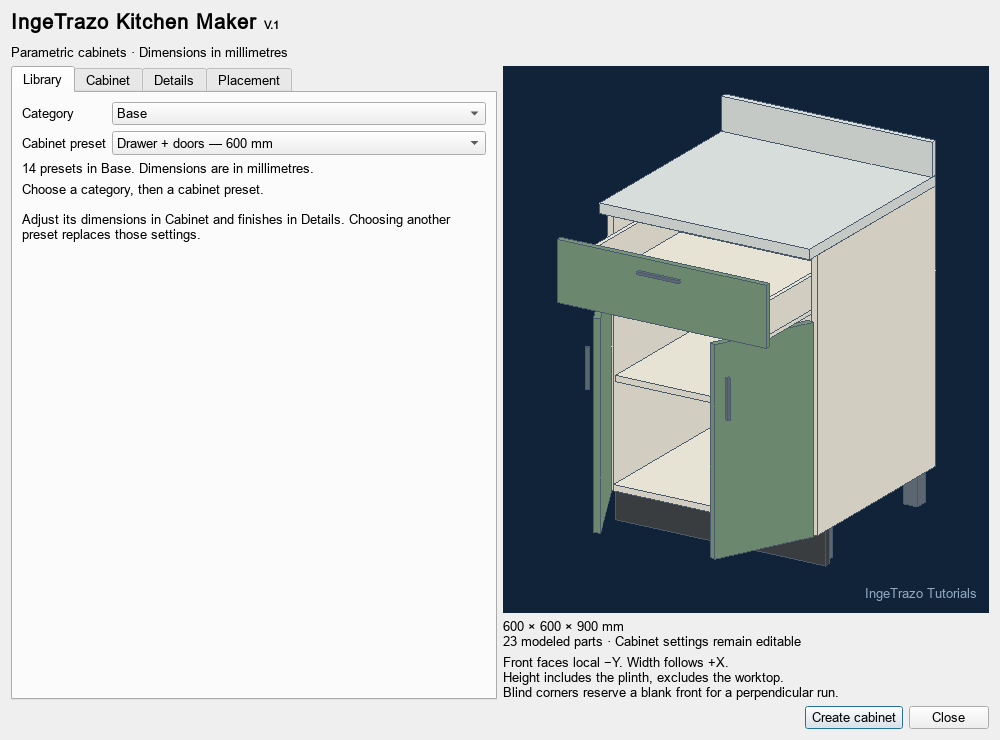
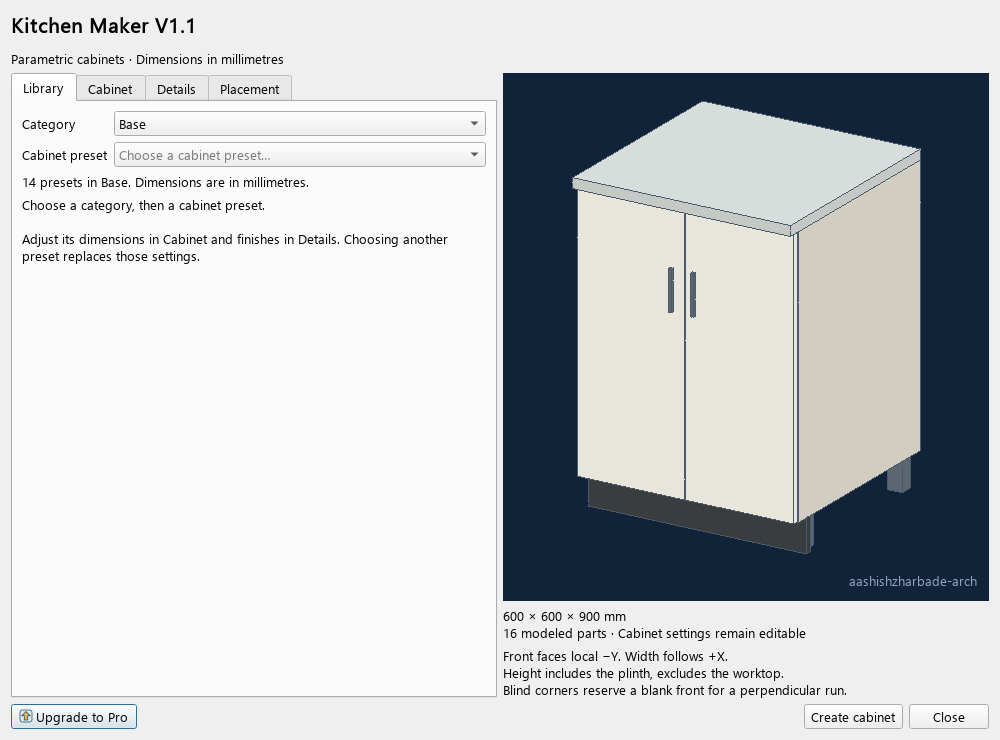
Add optional Upgrade to Pro link to Kitchen Maker free (1.1.0)

diff --git a/repository-upload/ingetrazo_kitchen_maker/ingetrazo_kitchen_maker.py b/repository-upload/ingetrazo_kitchen_maker/ingetrazo_kitchen_maker.py
@@ -1,5 +1,5 @@
 # SPDX-License-Identifier: GPL-3.0-or-later
-"""IngeTrazo Kitchen Maker V.1, native plugin for IngeTrazo 0.5.7.
+"""Kitchen Maker V1.1, native plugin for IngeTrazo 0.5.7.
 
 Native parametric geometry, Qt interface and procedurally drawn toolbar icons.
 Recipe dimensions are millimetres, generated model coordinates are metres.
@@ -12,8 +12,8 @@ import math
 import numpy as np
 from decimal import Decimal, ROUND_HALF_UP
 
-from PySide6.QtCore import Qt, QPointF, QTimer, QSize
-from PySide6.QtGui import QColor, QIcon, QImage, QPainter, QPen, QPixmap, QPolygonF, QVector3D, QMatrix4x4
+from PySide6.QtCore import Qt, QPointF, QTimer, QSize, QUrl
+from PySide6.QtGui import QColor, QDesktopServices, QIcon, QImage, QPainter, QPen, QPixmap, QPolygonF, QVector3D, QMatrix4x4
 from PySide6.QtWidgets import (QCheckBox, QComboBox, QDialog, QDoubleSpinBox,
     QFileDialog, QFormLayout, QHBoxLayout, QLabel, QLineEdit,
     QMessageBox, QPushButton, QScrollArea, QSpinBox, QTabWidget, QTableWidget,
@@ -24,8 +24,9 @@ from core.history import Command, InsertGroupCommand
 from tools.place_group import PlaceGroupTool
 
 KEY = "ingetrazo_kitchen_maker"
-VERSION = "1.0.2"
-TITLE = "IngeTrazo Kitchen Maker V.1"
+VERSION = "1.1.0"
+TITLE = "Kitchen Maker V1.1"
+PRO_URL = "https://ingetrazotutorials.gumroad.com/l/kitchen-maker-ingetrazo"
 FAMILIES = ("Base", "Wall", "Tall", "High", "Base corner", "Wall corner", "Filler")
 STYLES = ("Single door", "Double doors", "Drawers", "Drawer + doors", "Open shelves", "Glass doors", "Appliance niche", "Blind left", "Blind right")
 FINISHES = {"Warm white": (0.91, 0.90, 0.86), "Graphite": (0.20, 0.24, 0.28),
@@ -436,7 +437,7 @@ class Preview(QWidget):
             img=QImage(pixels.data,width,height,width*3,QImage.Format_RGB888)
             painter.drawImage(0,0,img)
         painter.setPen(QColor("#90a9c0"))
-        painter.drawText(self.rect().adjusted(12,0,-12,-12),Qt.AlignBottom|Qt.AlignRight,"IngeTrazo Tutorials")
+        painter.drawText(self.rect().adjusted(12,0,-12,-12),Qt.AlignBottom|Qt.AlignRight,"aashishzharbade-arch")
 
 
 class Editor(QDialog):
@@ -451,7 +452,7 @@ class Editor(QDialog):
         self.setWindowTitle(TITLE+ (" — Edit cabinet" if target else " — Cabinet library"))
         self.resize(1000,740)
         outer=QVBoxLayout(self)
-        outer.addWidget(QLabel("<h2>IngeTrazo Kitchen Maker <small>V.1</small></h2>Parametric cabinets · Dimensions in millimetres"))
+        outer.addWidget(QLabel(f"<h2>{TITLE}</h2>Parametric cabinets · Dimensions in millimetres"))
         body=QHBoxLayout();outer.addLayout(body,1)
         tabs=QTabWidget();body.addWidget(tabs,1)
         right=QVBoxLayout();body.addLayout(right,1)
@@ -528,6 +529,9 @@ class Editor(QDialog):
             tabs.setCurrentIndex(1)
         if beside: self.mode.setCurrentIndex(2)
         buttons=QHBoxLayout();outer.addLayout(buttons)
+        upgrade=QPushButton("Upgrade to Pro");upgrade.setIcon(toolbar_icon("Upgrade to Pro"))
+        upgrade.setToolTip("View Kitchen Maker Pro on Gumroad in your default browser")
+        upgrade.clicked.connect(lambda checked=False:open_upgrade(self));buttons.addWidget(upgrade)
         buttons.addStretch()
         self.apply_button=QPushButton("Update cabinet" if target else "Create cabinet")
         self.apply_button.clicked.connect(self.apply);buttons.addWidget(self.apply_button)
@@ -653,27 +657,60 @@ class Report(QDialog):
         except OSError as e: QMessageBox.warning(self,TITLE,str(e))
 
 
+def open_upgrade(parent=None):
+    """Open the supplied product page only after an explicit upgrade click."""
+    if not QDesktopServices.openUrl(QUrl(PRO_URL)):
+        QMessageBox.warning(parent,TITLE,"Could not open your browser. Copy this address to view Kitchen Maker Pro:\n"+PRO_URL)
+
+
 def toolbar_icon(kind):
-    pix=QPixmap(64,64);pix.fill(Qt.transparent)
+    """Compact original vector icons with consistent outlines and colour accents."""
+    pix=QPixmap(128,128);pix.setDevicePixelRatio(2);pix.fill(Qt.transparent)
     painter=QPainter(pix);painter.setRenderHint(QPainter.Antialiasing)
-    painter.setPen(QPen(QColor("#163d5c"),3));painter.setBrush(QColor("#57b7ea"))
-    if kind in ("Library","Add next","Edit"):
-        painter.drawRect(10,15,40,38);painter.drawLine(30,15,30,53)
-        painter.setPen(QPen(QColor("#ffffff"),3));painter.drawLine(25,27,25,39);painter.drawLine(35,27,35,39)
-        if kind=="Add next":
-            painter.setPen(QPen(QColor("#ed9b38"),5));painter.drawLine(46,8,46,26);painter.drawLine(37,17,55,17)
-        elif kind=="Edit":
-            painter.setPen(QPen(QColor("#ed9b38"),6));painter.drawLine(33,52,55,30)
+    navy="#23465c";blue="#45a8dc";pale="#d8effa";gold="#f2b450"
+    def pen(colour=navy,width=3):painter.setPen(QPen(QColor(colour),width,Qt.SolidLine,Qt.RoundCap,Qt.RoundJoin))
+    def line(x,y,X,Y,colour=navy,width=3):pen(colour,width);painter.drawLine(QPointF(x,y),QPointF(X,Y))
+    def rect(x,y,w,h,colour,radius=3):
+        pen();painter.setBrush(QColor(colour));painter.drawRoundedRect(x,y,w,h,radius,radius)
+    def polygon(points,colour):
+        pen();painter.setBrush(QColor(colour));painter.drawPolygon(QPolygonF([QPointF(x,y) for x,y in points]))
+    def cabinet(x=9,y=12,w=46,h=43):
+        rect(x,y,w,h,blue);line(x,y+8,x+w,y+8)
+        line(x+w/2,y+8,x+w/2,y+h)
+        line(x+w/2-5,y+18,x+w/2-5,y+26,"#ffffff")
+        line(x+w/2+5,y+18,x+w/2+5,y+26,"#ffffff")
+    if kind=="Library":cabinet()
+    elif kind=="Add next":
+        cabinet(7,19,37,36)
+        pen();painter.setBrush(QColor(gold));painter.drawEllipse(QPointF(48,16),11,11)
+        line(48,10,48,22);line(42,16,54,16)
+    elif kind=="Edit":
+        cabinet(7,13,36,41)
+        polygon([(28,48),(47,27),(55,35),(36,55)],gold)
+        polygon([(27,56),(28,48),(36,55)],"#fff3d5")
+        line(44,30,52,38,navy,2)
     elif kind=="Open / close":
-        painter.drawRect(8,13,30,40);painter.setBrush(QColor("#ffcb7c"));painter.drawPolygon(QPolygonF([QPointF(38,13),QPointF(55,24),QPointF(55,61),QPointF(38,53)]))
+        rect(8,12,31,42,blue)
+        polygon([(29,12),(55,21),(55,55),(29,54)],"#fff3d5")
+        line(47,31,47,41,navy,3)
     elif kind=="Swap hinge":
-        painter.drawLine(8,32,56,32);painter.drawLine(8,32,22,18);painter.drawLine(56,32,42,46)
+        rect(15,16,34,34,pale)
+        rect(11,21,8,10,gold,2);rect(45,35,8,10,gold,2)
+        line(24,8,51,8);line(51,8,45,3);line(51,8,45,13)
+        line(40,58,13,58);line(13,58,19,53);line(13,58,19,63)
+    elif kind=="Upgrade to Pro":
+        rect(8,8,48,48,pale,10)
+        polygon([(32,14),(49,31),(39,31),(39,48),(25,48),(25,31),(15,31)],gold)
     elif kind=="Finishes":
-        for x,c in ((6,"#e0c3a0"),(24,"#587e64"),(42,"#438db9")):
-            painter.setBrush(QColor(c));painter.drawRect(x,15,16,36)
+        rect(8,20,22,32,blue);rect(21,10,22,32,"#8eb8a2");rect(34,23,22,32,gold)
+        line(13,27,19,27,"#ffffff",2);line(26,17,32,17,"#ffffff",2);line(39,30,45,30,"#ffffff",2)
     else:
-        painter.setBrush(QColor("#f0ece1"));painter.drawRect(13,8,38,48)
-        for y in (20,30,40): painter.drawLine(20,y,44,y)
+        polygon([(11,7),(35,7),(45,17),(45,55),(11,55)],"#ffffff")
+        polygon([(35,7),(35,17),(45,17)],pale)
+        rect(17,24,22,23,pale,1);line(27,24,27,47,navy,2)
+        line(17,32,39,32,navy,2);line(17,40,39,40,navy,2)
+        pen();painter.setBrush(QColor(gold));painter.drawEllipse(QPointF(47,47),11,11)
+        line(47,40,47,54,navy,2);line(43,43,51,43,navy,2);line(43,50,51,50,navy,2)
     painter.end();return QIcon(pix)
 
 
@@ -686,6 +723,7 @@ def setup(app):
         dialog.show()
     def action(name):
         try:
+            if name=="Upgrade to Pro":open_upgrade(app.window);return
             if app.scene.edit_group is not None:
                 raise ValueError("Close the group you are editing first.")
             targets=selected(app.scene)
@@ -722,6 +760,11 @@ def setup(app):
         a.setToolTip(f"Kitchen Maker — {name}")
         a.triggered.connect(lambda checked=False,n=name:action(n))
         menu.addAction(a)
+    toolbar.addSeparator();menu.addSeparator()
+    upgrade=toolbar.addAction(toolbar_icon("Upgrade to Pro"),"Upgrade to Pro")
+    upgrade.setToolTip("Upgrade to Pro — view Kitchen Maker Pro on Gumroad")
+    upgrade.triggered.connect(lambda checked=False:action("Upgrade to Pro"));menu.addAction(upgrade)
+    toolbar.widgetForAction(upgrade).setToolButtonStyle(Qt.ToolButtonIconOnly)
     app.window.addToolBar(Qt.TopToolBarArea,toolbar)
     menu.addSeparator();menu.addAction(toolbar.toggleViewAction())
     def context(menu,selection):

diff --git a/repository-upload/ingetrazo_kitchen_maker/README.md b/repository-upload/ingetrazo_kitchen_maker/README.md
@@ -1,6 +1,6 @@
-# IngeTrazo Kitchen Maker V.1
+# Kitchen Maker V1.1
 
-Version 1.0.2 · Target: IngeTrazo **0.5.7** · English UI · millimetres.
+Version 1.1.0 · Target: IngeTrazo **0.5.7** · English UI · millimetres.
 
 A native Python kitchen-design plugin with parametric cabinets, a categorized
 library, placement tools and cost reports. Full editable source is included
@@ -13,7 +13,7 @@ dependencies.
 2. Download the Python file, or extract the repository ZIP.
 3. Copy **ingetrazo_kitchen_maker.py** into
    `%APPDATA%\ingetrazo\plugins` (create the folder if necessary).
-4. Restart IngeTrazo. Open **Extensions → IngeTrazo Kitchen Maker V.1**,
+4. Restart IngeTrazo. Open **Extensions → Kitchen Maker V1.1**,
    or use its toolbar.
 
 Only that one Python file needs installation. The example model, previews and
@@ -31,12 +31,30 @@ Maker and the architectural toolkit because it has its own filename and data key
   front gap, handles, hinge side and opening amount.
 - Six solid-colour front finishes and three solid-colour worktop finishes.
 - Per-cabinet worktops, front overhang and optional backsplash.
-- Live shaded preview and IngeTrazo Tutorials watermark in the UI only.
-- Seven dedicated toolbar buttons: Library, Add next, Edit, Open/close,
-  Swap hinge, Finishes and Cost report.
+- Live shaded preview with aashishzharbade-arch in the lower-right corner of the UI.
+- Eight toolbar actions: Library, Add next, Edit, Open/close, Swap hinge,
+  Finishes, Cost report and an icon-only Upgrade to Pro button. All eight use
+  redesigned compact vector icons. Hover over an icon for its action name.
 - Movable, floating and dockable toolbar; use its grip to move it. Its visibility
   can be restored from the plugin menu. IngeTrazo manages saved toolbar layout.
 - Undo/Redo, editable recipes stored in `.igz`, and CSV cost reports.
+
+## Upgrade to Pro
+
+Click the **up-arrow icon** at the end of the toolbar (hover: **Upgrade to Pro**),
+choose the extension menu item, or use **Upgrade to Pro** at the lower left of
+the cabinet editor. Your default browser opens:
+
+[Kitchen Maker Pro on Gumroad](https://ingetrazotutorials.gumroad.com/l/kitchen-maker-ingetrazo)
+
+This is an optional product-page link. It makes no startup request and does not
+purchase, download or activate Pro automatically. If a browser cannot open,
+the dialog displays the address to copy. The free cabinet tools keep working.
+
+1.1.0 is a small update to the free edition; it is separate from the Pro
+releases. When installing Pro, follow its installation/backup instructions:
+the free file and Pro package use the same plugin module name and should not
+both remain active in the plugins folder.
 
 ## Create and place a cabinet
 
@@ -100,6 +118,10 @@ cost report, not a supplier invoice or a CNC cutting list.
 
 ## Files and limitations
 
+The example assets listed below remain in the existing GitHub folder. The
+1.1.0 update archive contains the plugin, documentation and updated UI previews.
+
+
 - `example-kitchen.igz`: seven editable cabinets; open in IngeTrazo to try them.
 - `example-cost-report.csv`: the example report, with zero prices ready to fill.
 - `example-kitchen.png`, `editor-preview.png`, `toolbar.png`: visual previews.
@@ -110,7 +132,7 @@ carcasses, lift-up fronts, appliance/sink models, textured materials, interactiv
 resize handles, collision checking, cut lists or hardware/manufacturing details.
 Glass is a simple transparent panel and hinges are conceptual pivots.
 
-Validated with **76 automated tests** against IngeTrazo 0.5.7 source: category filtering,
+Historical 1.0.2 validation: **76 automated tests** against IngeTrazo 0.5.7 source: category filtering,
 preserving custom settings when opening the editor, closed solid
 geometry, opening/closing, placement, updates, copying, persistence, Undo/Redo,
 reports, plugin discovery and toolbar flags. The actual IngeTrazo MainWindow
@@ -123,4 +145,4 @@ License: GPL-3.0-or-later; see LICENSE.
 ## Publication preparation
 
 The owner confirmed IngeTrazo 0.5.7 as the installed test version.
-The publishing preparation checks syntax, packaging and catalog metadata; it does not rerun the historical test suites described above.
+For 1.1.0, offscreen Qt click checks verified the exact product URL, no startup browser request, toolbar/menu/editor routing, unchanged editor parameters and scene, use without a cabinet selection and the browser-failure message. AST comparison confirmed that cabinet geometry, recipes, placement and reports were not modified. These checks used the 0.5.7 source API; the historical 76-test suite above was not rerun. Actual OS browser launching was intercepted; installed desktop GUI and live product-page availability remain unverified.

diff --git a/repository-upload/ingetrazo_kitchen_maker/DEVELOPMENT.md b/repository-upload/ingetrazo_kitchen_maker/DEVELOPMENT.md
@@ -36,3 +36,28 @@ user; modeling actions use the host document and command history.
 Version 1.0.2 changes packaging/provenance documentation only, plus the internal
 version number. The categorized library from 1.0.1 remains available. It is a
 source distribution; publication to a public Git repository is a separate step.
+
+## 1.0.3 upgrade-link patch (2026-11-09)
+
+Adds a user-clicked Upgrade to Pro link in the toolbar/menu and editor footer.
+The fixed Gumroad address is opened by Qt's desktop URL handler. No request is
+made at startup, and no purchase, activation, licence check or auto-update runs.
+The original cabinet, placement, geometry and report functions are unchanged.
+Offscreen Qt checks verified click routing, unchanged scene/editor parameters,
+operation without a selection/in an edit context, and the browser-failure message.
+Actual OS browser launching was intercepted for verification; the installed
+desktop app and live Gumroad page were not verified by those checks.
+
+The final UI revision uses an icon-only upgrade toolbar button (action/menu
+name and tooltip retained) and eight redesigned procedural vector icons with
+consistent navy outlines and blue/gold accents. Cabinet editor button text
+remains visible. The icon artwork is embedded, with no external asset dependency.
+
+## Kitchen Maker V1.1 (1.1.0)
+
+Renames the display title, menu, toolbar and editor header to Kitchen Maker V1.1.
+The stable plugin data key and toolbar object name are retained for existing
+projects and saved layouts. The icon-only upgrade button and redesigned icons
+are preserved. Target host metadata remains 0.5.7.
+The lower-right preview watermark is aashishzharbade-arch; only this display
+string changes in the preview renderer.
